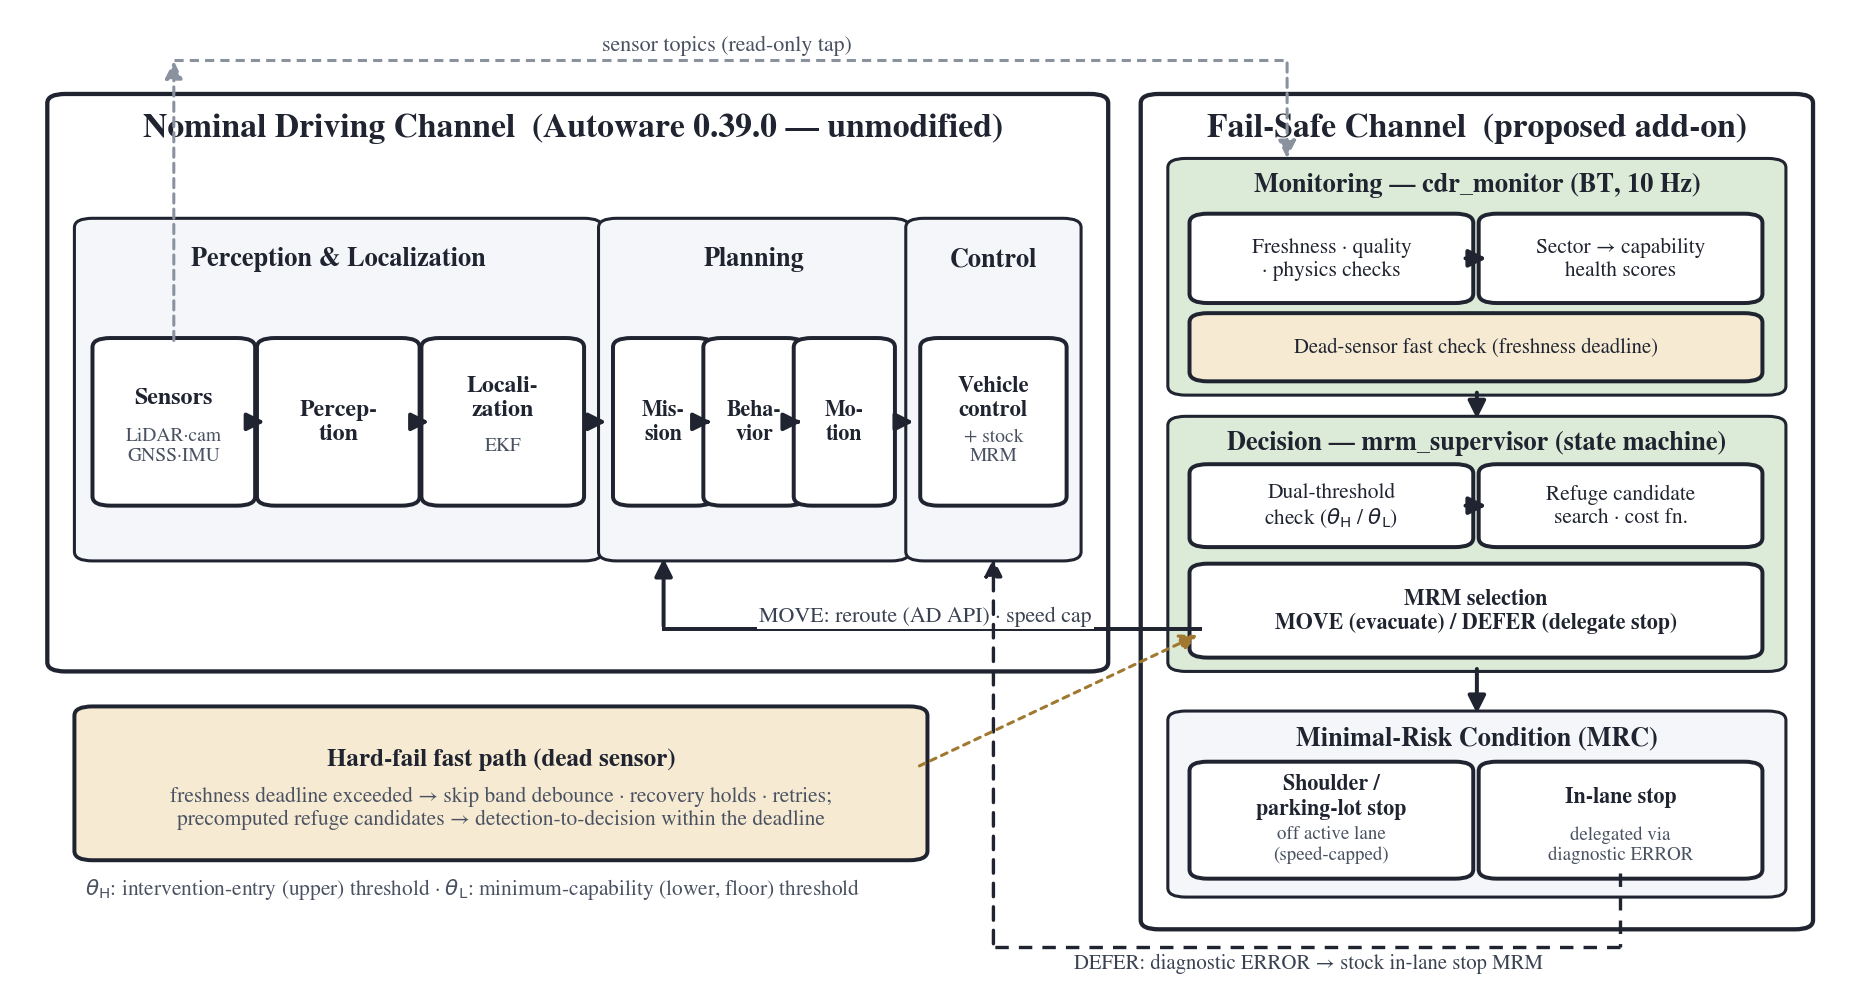
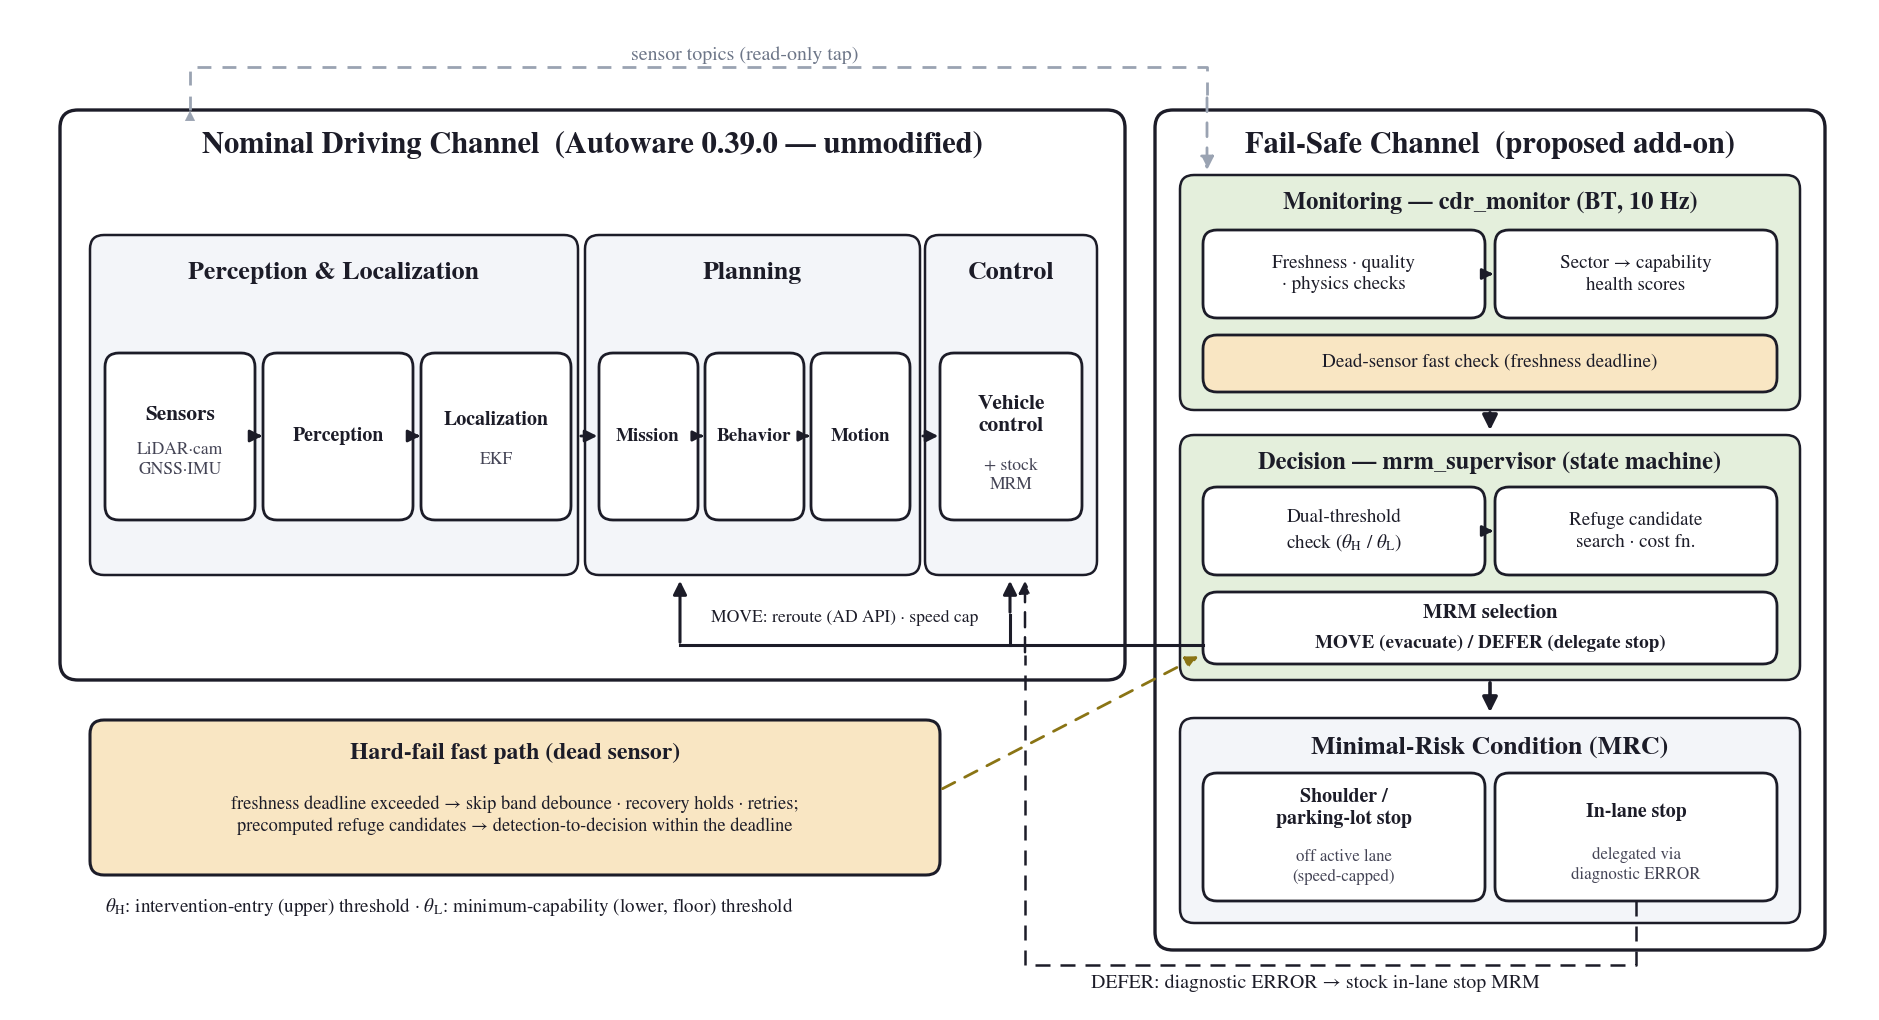
fig_dualchannel_arch_en: fix mid-word hyphenation (Perception/Localization/Mission/Behavior/Motion one-line), keep generator script in repo
Claude-Session: https://claude.ai/code/session_01NtLkxt91PCkwwW6kGTEs5W

Changed region(s): [[0.0308, 0.0312, 0.9854, 0.997], [0.4927, 0.7166, 0.5543, 0.7789]]

diff --git a/doc/figs/src/fig_dualchannel_arch_en.py b/doc/figs/src/fig_dualchannel_arch_en.py
@@ -1,0 +1,162 @@
+#!/usr/bin/env python3
+"""fig_dualchannel_arch_en.png — dual-channel architecture (English).
+Regenerated 0826: no mid-word hyphenation (Perception/Localization/Mission/Behavior/Motion on one line)."""
+import matplotlib
+matplotlib.use("Agg")
+import matplotlib.pyplot as plt
+from matplotlib.patches import FancyBboxPatch, FancyArrowPatch
+
+plt.rcParams.update({
+    "font.family": "serif",
+    "font.serif": ["STIXGeneral", "DejaVu Serif"],
+    "mathtext.fontset": "stix",
+})
+
+W, H = 1850, 990
+fig = plt.figure(figsize=(W/100, H/100), dpi=100)
+ax = fig.add_axes([0, 0, 1, 1])
+ax.set_xlim(0, W); ax.set_ylim(0, H); ax.axis("off")
+
+INK = "#1c1c28"
+GRAY = "#9aa3b2"
+GREEN = "#e4efdc"
+ORANGE = "#f9e6c3"
+LIGHT = "#f3f5f9"
+OLIVE = "#8a7414"
+
+def T(y):  # top-based y -> mpl y
+    return H - y
+
+def rbox(x, y_top, w, h, fc="white", ec=INK, lw=2.0, r=14, ls="-"):
+    ax.add_patch(FancyBboxPatch((x, T(y_top) - h), w, h,
+                 boxstyle=f"round,pad=0,rounding_size={r}",
+                 fc=fc, ec=ec, lw=lw, linestyle=ls, mutation_aspect=1))
+
+def txt(x, y_top, s, size=13, weight="normal", color=INK, ha="center", va="center"):
+    ax.text(x, T(y_top), s, fontsize=size * 1.10, fontweight=weight, color=color,
+            ha=ha, va=va, linespacing=1.35)
+
+# ---------------- left panel: nominal channel ----------------
+rbox(45, 95, 1065, 570, fc="white", lw=2.4, r=18)
+txt(577, 130, "Nominal Driving Channel  (Autoware 0.39.0 — unmodified)", 20, "bold")
+
+# Perception & Localization group
+rbox(75, 220, 488, 340, fc=LIGHT, lw=1.8)
+txt(319, 258, "Perception & Localization", 17, "bold")
+rbox(90, 338, 150, 167); rbox(248, 338, 150, 167); rbox(406, 338, 150, 167)
+txt(165, 400, "Sensors", 14, "bold")
+txt(165, 445, "LiDAR·cam\nGNSS·IMU", 11.5, color="#444455")
+txt(323, 421, "Perception", 13, "bold")
+txt(481, 405, "Localization", 13, "bold")
+txt(481, 445, "EKF", 11.5, color="#444455")
+for x0 in (240, 398):
+    ax.add_patch(FancyArrowPatch((x0, T(421)), (x0 + 10, T(421)),
+                 arrowstyle="-|>", mutation_scale=18, color=INK, lw=2))
+
+# Planning group
+rbox(570, 220, 335, 340, fc=LIGHT, lw=1.8)
+txt(737, 258, "Planning", 17, "bold")
+rbox(584, 338, 99, 167); rbox(690, 338, 99, 167); rbox(796, 338, 99, 167)
+txt(633, 421, "Mission", 12.5, "bold")
+txt(739, 421, "Behavior", 12.5, "bold")
+txt(845, 421, "Motion", 12.5, "bold")
+for x0 in (683, 789):
+    ax.add_patch(FancyArrowPatch((x0, T(421)), (x0 + 8, T(421)),
+                 arrowstyle="-|>", mutation_scale=15, color=INK, lw=2))
+ax.add_patch(FancyArrowPatch((563, T(421)), (585, T(421)),
+             arrowstyle="-|>", mutation_scale=18, color=INK, lw=2))
+
+# Control group
+rbox(910, 220, 172, 340, fc=LIGHT, lw=1.8)
+txt(996, 258, "Control", 17, "bold")
+rbox(925, 338, 142, 167)
+txt(996, 400, "Vehicle\ncontrol", 14, "bold")
+txt(996, 460, "+ stock\nMRM", 11.5, color="#444455")
+ax.add_patch(FancyArrowPatch((905, T(421)), (926, T(421)),
+             arrowstyle="-|>", mutation_scale=18, color=INK, lw=2))
+
+# ---------------- right panel: fail-safe channel ----------------
+rbox(1140, 95, 670, 840, fc="white", lw=2.4, r=18)
+txt(1475, 130, "Fail-Safe Channel  (proposed add-on)", 20, "bold")
+
+# Monitoring
+rbox(1165, 160, 620, 235, fc=GREEN, lw=1.8)
+txt(1475, 188, "Monitoring — cdr_monitor (BT, 10 Hz)", 16, "bold")
+rbox(1188, 215, 282, 88); rbox(1480, 215, 282, 88)
+txt(1329, 259, "Freshness · quality\n· physics checks", 12.5)
+txt(1621, 259, "Sector → capability\nhealth scores", 12.5)
+ax.add_patch(FancyArrowPatch((1470, T(259)), (1481, T(259)),
+             arrowstyle="-|>", mutation_scale=16, color=INK, lw=2))
+rbox(1188, 320, 574, 57, fc=ORANGE)
+txt(1475, 348, "Dead-sensor fast check (freshness deadline)", 12.5)
+
+# Monitoring -> Decision
+ax.add_patch(FancyArrowPatch((1475, T(395)), (1475, T(418)),
+             arrowstyle="-|>", mutation_scale=22, color=INK, lw=2.6))
+
+# Decision
+rbox(1165, 420, 620, 245, fc=GREEN, lw=1.8)
+txt(1475, 448, "Decision — mrm_supervisor (state machine)", 16, "bold")
+rbox(1188, 472, 282, 88); rbox(1480, 472, 282, 88)
+txt(1329, 516, "Dual-threshold\ncheck ($\\theta_\\mathrm{H}$ / $\\theta_\\mathrm{L}$)", 12.5)
+txt(1621, 516, "Refuge candidate\nsearch · cost fn.", 12.5)
+ax.add_patch(FancyArrowPatch((1470, T(516)), (1481, T(516)),
+             arrowstyle="-|>", mutation_scale=16, color=INK, lw=2))
+rbox(1188, 577, 574, 72)
+txt(1475, 598, "MRM selection", 13.5, "bold")
+txt(1475, 628, "MOVE (evacuate) / DEFER (delegate stop)", 12.5, "bold")
+
+# Decision -> MRC
+ax.add_patch(FancyArrowPatch((1475, T(665)), (1475, T(700)),
+             arrowstyle="-|>", mutation_scale=22, color=INK, lw=2.6))
+
+# MRC
+rbox(1165, 703, 620, 205, fc=LIGHT, lw=1.8)
+txt(1475, 733, "Minimal-Risk Condition (MRC)", 17, "bold")
+rbox(1188, 758, 282, 128); rbox(1480, 758, 282, 128)
+txt(1329, 793, "Shoulder /\nparking-lot stop", 13, "bold")
+txt(1329, 852, "off active lane\n(speed-capped)", 11, color="#444455")
+txt(1621, 797, "In-lane stop", 13, "bold")
+txt(1621, 850, "delegated via\ndiagnostic ERROR", 11, color="#444455")
+
+# ---------------- hard-fail fast path ----------------
+rbox(75, 705, 850, 155, fc=ORANGE, lw=2.2)
+txt(500, 738, "Hard-fail fast path (dead sensor)", 15.5, "bold")
+txt(500, 800, "freshness deadline exceeded → skip band debounce · recovery holds · retries;\n"
+              "precomputed refuge candidates → detection-to-decision within the deadline", 12)
+txt(90, 892, "$\\theta_\\mathrm{H}$: intervention-entry (upper) threshold · "
+             "$\\theta_\\mathrm{L}$: minimum-capability (lower, floor) threshold", 12.5, ha="left")
+
+# ---------------- inter-channel arrows ----------------
+# sensor topics tap (dashed gray, over the top)
+ax.plot([175, 175, 1192, 1192], [T(95), T(52), T(52), T(80)],
+        color=GRAY, lw=2, ls=(0, (5, 4)))
+ax.add_patch(FancyArrowPatch((1192, T(80)), (1192, T(158)),
+             arrowstyle="-|>", mutation_scale=20, color=GRAY, lw=2, ls=(0, (5, 4))))
+ax.add_patch(FancyArrowPatch((175, T(100)), (175, T(93)),
+             arrowstyle="-|>", mutation_scale=18, color=GRAY, lw=0.1))
+txt(730, 40, "sensor topics (read-only tap)", 13, color="#6d7688")
+
+# MOVE: MRM selection -> Planning & Control (solid)
+ax.plot([1188, 665], [T(630), T(630)], color=INK, lw=2.2)
+ax.add_patch(FancyArrowPatch((665, T(630)), (665, T(563)),
+             arrowstyle="-|>", mutation_scale=20, color=INK, lw=2.2))
+ax.plot([995, 995], [T(630), T(600)], color=INK, lw=2.2)
+ax.add_patch(FancyArrowPatch((995, T(600)), (995, T(563)),
+             arrowstyle="-|>", mutation_scale=20, color=INK, lw=2.2))
+txt(830, 603, "MOVE: reroute (AD API) · speed cap", 11.5)
+
+# hard-fail -> MRM selection (dashed olive)
+ax.add_patch(FancyArrowPatch((925, T(775)), (1186, T(640)),
+             arrowstyle="-|>", mutation_scale=18, color=OLIVE, lw=2, ls=(0, (5, 4))))
+
+# DEFER: in-lane stop -> stock MRM (dashed black, along the bottom)
+ax.plot([1621, 1621, 1010, 1010], [T(886), T(950), T(950), T(640)],
+        color=INK, lw=1.8, ls=(0, (6, 4)))
+ax.add_patch(FancyArrowPatch((1010, T(640)), (1010, T(563)),
+             arrowstyle="-|>", mutation_scale=18, color=INK, lw=1.8, ls=(0, (6, 4))))
+txt(1300, 968, "DEFER: diagnostic ERROR → stock in-lane stop MRM", 13)
+
+fig.savefig("/home/taewook/autoware_carla_leaderboard/doc/figs/en/fig_dualchannel_arch_en.png",
+            bbox_inches="tight", pad_inches=0.15, facecolor="white")
+print("saved")
